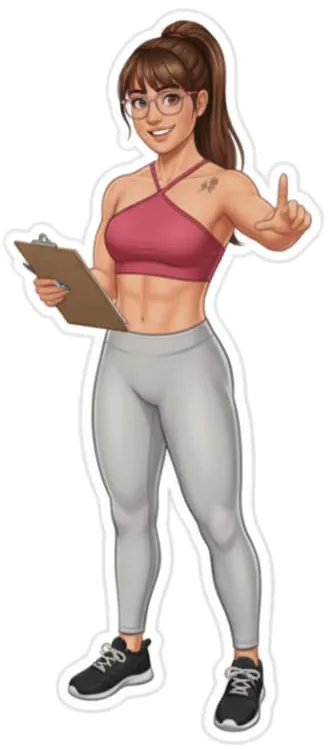
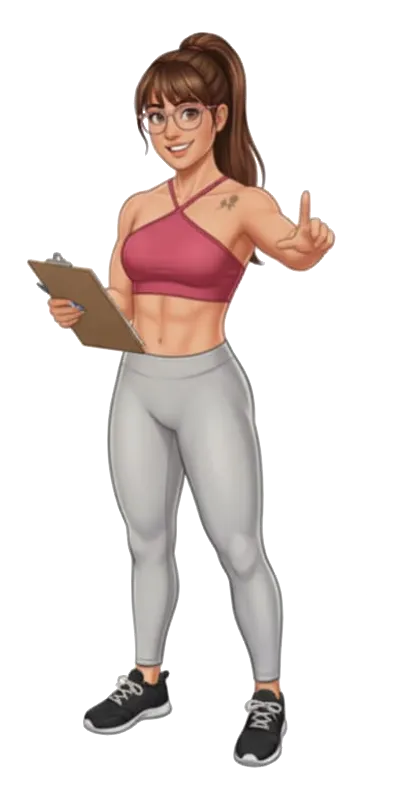
change asset and add workflow

Changed region(s): [[0.0302, 0.0, 0.9668, 1.0]]

diff --git a/frontend/src/components/checkout/CheckoutSuccessPage.tsx b/frontend/src/components/checkout/CheckoutSuccessPage.tsx
@@ -5,7 +5,7 @@ import { NavigationLayout } from "../layout/NavigationLayout";
 import { AvatarDisplay } from "../ui/AvatarDisplay";
 import { PageContainer } from "../layout/PageContainer";
 import { useDefaultNavButtons } from "@/hooks/useDefaultNavButtons";
-import wink from "@/assets/wink.webp";
+import about from "@/assets/about.webp";
 
 export function CheckoutSuccessPage() {
   const buttons = useDefaultNavButtons();
@@ -14,7 +14,7 @@ export function CheckoutSuccessPage() {
       <NavigationLayout buttons={buttons} />
       <div className="space-y-8 text-center">
         <AvatarDisplay
-          src={wink.src}
+          src={about.src}
           fallback="RB"
           className="mx-auto h-26 w-26"
         />
